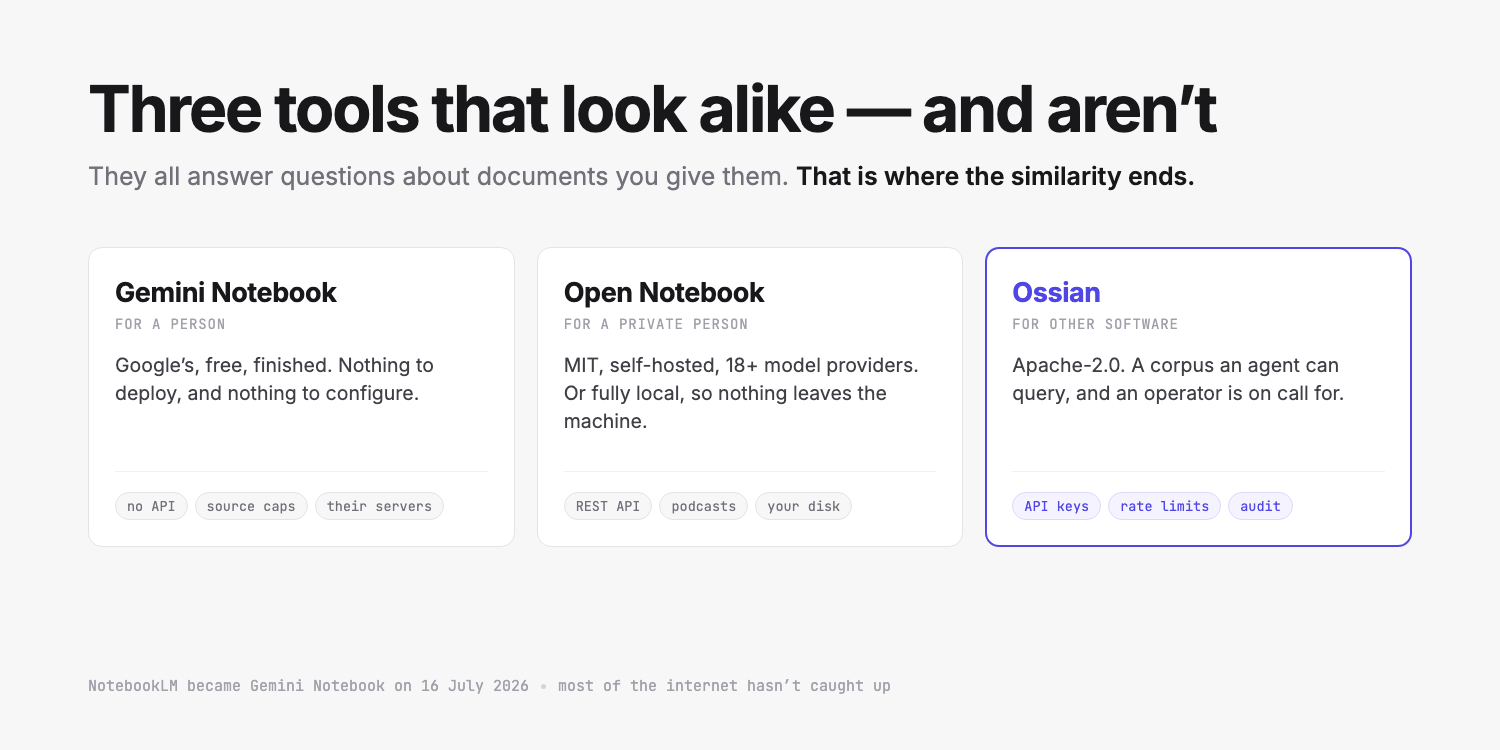
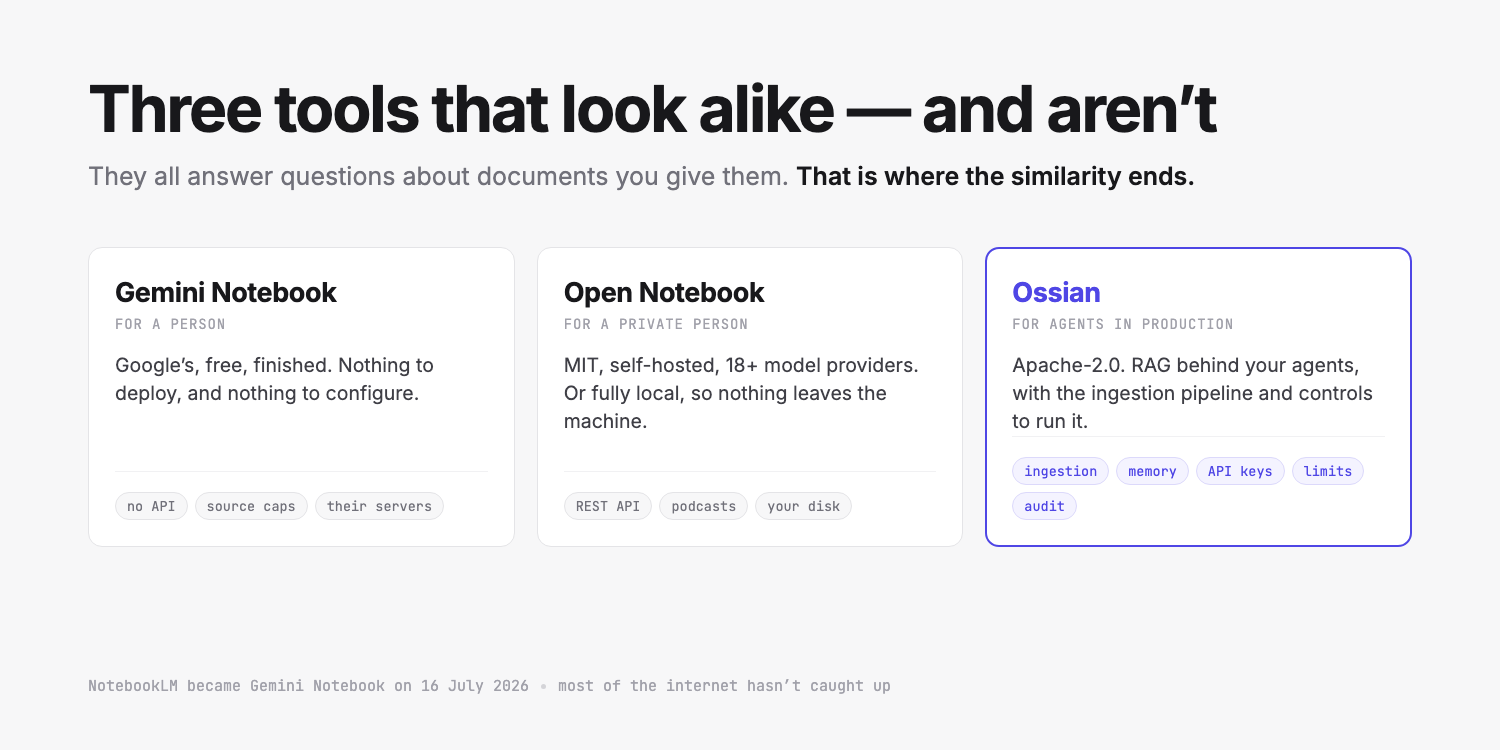
Fix table rendering for Medium, and say what Ossian is for
Two problems, one of them self-inflicted.

The tables were misaligned. Wrapped cells put a continuation line under
the first column with nothing tying it to its row, so the table read as a
list of fragments. Separating rows with a blank line fixed the reading and
broke the table: Medium's paste importer treats a blank line inside a
<pre> as a block boundary, so one table silently became several code
blocks. Found by watching it happen in the editor.

The fix is not to wrap at all. Two-column tables become native paragraphs,
which read better than any monospace grid. Wider ones stay preformatted
with cells short enough that every row fits one line — alignment is the
whole point of a grid, and a grid that wraps has given that up.

And "a company that needs a documented corpus other software can query"
undersold it to the point of being wrong. Ossian is a RAG backend for a
company's agents, with the ingestion pipeline, memory, credentials, limits
and audit needed to run that in production. Corrected in the comparison,
the positioning line and the banner, and the table gains an Ingestion row
— upload, URL and CDC/webhook events against upload-only for both others,
which is the difference the old wording hid.

The converter is committed alongside the posts, since it now encodes
several things about Medium that are only learnable by trying.

Changed region(s): [[0.6747, 0.4293, 0.92, 0.5827], [0.6747, 0.6133, 0.92, 0.7053]]

diff --git a/docs/media/blog-2-banner.html b/docs/media/blog-2-banner.html
@@ -48,9 +48,9 @@
     </div>
     <div class="card mine">
       <div class="name">Ossian</div>
-      <div class="for">for other software</div>
-      <div class="line">Apache-2.0. A corpus an agent can query, and an operator is on call for.</div>
-      <div class="tags"><span class="tag">API keys</span><span class="tag">rate limits</span><span class="tag">audit</span></div>
+      <div class="for">for agents in production</div>
+      <div class="line">Apache-2.0. RAG behind your agents, with the ingestion pipeline and controls to run it.</div>
+      <div class="tags"><span class="tag">ingestion</span><span class="tag">memory</span><span class="tag">API keys</span><span class="tag">limits</span><span class="tag">audit</span></div>
     </div>
   </div>
 

diff --git a/docs/media/md2medium.py b/docs/media/md2medium.py
@@ -1,0 +1,102 @@
+"""Markdown -> HTML shaped for Medium's paste importer.
+
+Medium renders a narrow subset. Two things matter here: it has no table element at all, so a
+markdown table pasted in arrives as a run of pipes; and its code blocks preserve alignment. Tables
+therefore become <pre>, column-aligned, which is the closest honest rendering.
+"""
+import re, sys, html
+
+def render_table(rows):
+    """Render a markdown table for Medium, which has no table element.
+
+    Two constraints learned the hard way. Medium's code blocks scroll rather than wrap, so a
+    wrapped cell is fine but a *split* row is unreadable. And its paste importer treats a blank
+    line inside a <pre> as a block boundary — a blank line between rows, added to group wrapped
+    ones, silently breaks a single table into several code blocks.
+
+    So: two-column tables become native paragraphs, which read better than any monospace grid.
+    Wider tables stay preformatted, sized so every row fits one line — alignment is what makes a
+    grid legible, and a grid that wraps has given that up anyway.
+    """
+    def plain(c):
+        c = re.sub(r'\*\*([^*]+)\*\*', r'\1', c)
+        return c.strip()
+    raw = [[c.strip() for c in r.strip().strip('|').split('|')] for r in rows]
+    raw = [c for c in raw if not all(set(x) <= set('-: ') for x in c)]
+    if not raw:
+        return ''
+    ncols = max(len(r) for r in raw)
+
+    if ncols == 2:
+        # A term and its description is a definition list, not a grid.
+        out = []
+        for i, row in enumerate(raw):
+            left, right = plain(row[0]), row[1] if len(row) > 1 else ''
+            if i == 0 and not left:
+                continue  # header with an empty first cell carries no information here
+            out.append('<p><strong>' + html.escape(left) + '</strong> — ' + inline(right) + '</p>')
+        return '\n'.join(out)
+
+    cells = [[plain(c) for c in (r + [''] * (ncols - len(r)))] for r in raw]
+    widths = [max(len(r[i]) for r in cells) for i in range(ncols)]
+    out = []
+    for n, row in enumerate(cells):
+        out.append('  '.join(row[i].ljust(widths[i]) for i in range(ncols)).rstrip())
+        if n == 0:
+            out.append('  '.join('-' * widths[i] for i in range(ncols)))
+    return '<pre>' + html.escape('\n'.join(out)) + '</pre>'
+
+def inline(t):
+    t = html.escape(t)
+    t = re.sub(r'`([^`]+)`', r'<code>\1</code>', t)
+    t = re.sub(r'\*\*([^*]+)\*\*', r'<strong>\1</strong>', t)
+    t = re.sub(r'(?<![*\w])\*([^*\n]+)\*(?!\*)', r'<em>\1</em>', t)
+    t = re.sub(r'\[([^\]]+)\]\(([^)]+)\)', r'<a href="\2">\1</a>', t)
+    return t
+
+def convert(md):
+    out, lines, i = [], md.split('\n'), 0
+    while i < len(lines):
+        line = lines[i]
+        if line.startswith('```'):
+            i += 1; buf = []
+            while i < len(lines) and not lines[i].startswith('```'):
+                buf.append(lines[i]); i += 1
+            i += 1
+            out.append('<pre>' + html.escape('\n'.join(buf)) + '</pre>')
+        elif line.strip().startswith('|'):
+            buf = []
+            while i < len(lines) and lines[i].strip().startswith('|'):
+                buf.append(lines[i]); i += 1
+            out.append(render_table(buf))
+        elif line.startswith('### '):
+            out.append('<h3>' + inline(line[4:]) + '</h3>'); i += 1
+        elif line.startswith('## '):
+            out.append('<h2>' + inline(line[3:]) + '</h2>'); i += 1
+        elif line.startswith('# '):
+            out.append('<h1>' + inline(line[2:]) + '</h1>'); i += 1
+        elif line.strip() == '---':
+            out.append('<hr>'); i += 1
+        elif line.strip().startswith(('- ', '* ')):
+            buf = []
+            while i < len(lines) and lines[i].strip().startswith(('- ', '* ')):
+                buf.append('<li>' + inline(lines[i].strip()[2:]) + '</li>'); i += 1
+            out.append('<ul>' + ''.join(buf) + '</ul>')
+        elif line.strip() == '':
+            i += 1
+        else:
+            buf = []
+            while i < len(lines) and lines[i].strip() and not lines[i].startswith(('#', '```', '|', '- ', '* ')) \
+                    and lines[i].strip() != '---':
+                buf.append(lines[i].strip()); i += 1
+            out.append('<p>' + inline(' '.join(buf)) + '</p>')
+    return '\n'.join(out)
+
+src = open(sys.argv[1]).read()
+# The H1 becomes Medium's title from the editor, not from the body.
+src = re.sub(r'\A# .*\n', '', src, count=1)
+# Drop standalone image references. They point at repo-relative paths that would not resolve on
+# Medium, and the banner is inserted there as a real upload — left in, they paste as literal
+# "![alt](path)" text in the middle of the article.
+src = re.sub(r'^!\[[^\]]*\]\([^)]*\)\s*$', '', src, flags=re.M)
+sys.stdout.write(convert(src))

diff --git a/docs/blog-2-notebooklm-vs-open-notebook-vs-ossian.md b/docs/blog-2-notebooklm-vs-open-notebook-vs-ossian.md
@@ -24,9 +24,10 @@ NotebookLM.
 |---|---|
 | **Gemini Notebook** | a person, reading sources, who wants excellent answers with zero setup |
 | **Open Notebook** | a person who wants that, privately, on their own machine, with any model |
-| **Ossian** | a company that needs a documented corpus other software can query |
+| **Ossian** | a company putting RAG behind its agents, with the ingestion pipeline and controls that needs |
 
-The first two are notebooks. The third is infrastructure that happens to have a notebook on top.
+The first two are notebooks. The third is a RAG backend for agents — ingestion pipeline,
+retrieval, memory, credentials, limits and audit — that happens to have a notebook on top.
 
 ---
 
@@ -85,9 +86,11 @@ for.
 
 Mine. Apache-2.0, Spring Boot and Spring AI, Postgres with pgvector, Redis, Keycloak, React.
 
-**What it is built for: being queried by other software, inside a company, and operated by someone
-who is on call for it.** The notebook UI exists so a person can use the corpus, but it is not the
-point. The point is everything around it:
+**What it is built for: putting RAG behind a company's agents, with everything needed to run that
+in production.** The notebook UI exists so a person can use the corpus, but it is not the point.
+The point is the stack around it — an ingestion pipeline you can operate, retrieval you can debug,
+memory the agents own, and the integration surface a company needs to put this behind its own
+software:
 
 - **Keycloak OAuth 2.0** with roles, and **API keys** so an agent can authenticate without a
   browser — a key carries its own roles and can be confined to a single namespace
@@ -112,23 +115,24 @@ you — Postgres, Redis, Keycloak and a model gateway is a real deployment, not 
 
 ## Side by side
 
-| | Gemini Notebook | Open Notebook | Ossian |
+| | Gemini | Open Notebook | Ossian |
 |---|---|---|---|
 | Licence | proprietary | MIT | Apache-2.0 |
-| Runs on | Google's servers | yours | yours |
-| Setup | none | `docker compose up` | compose + Keycloak + a gateway |
-| Source limits | 50–600 per notebook by plan | your disk | your disk |
-| Models | Gemini | 18+ providers, or fully local | whatever the gateway routes to |
-| Auth | Google account | optional password | OAuth 2.0 + roles + API keys |
-| API | none | full REST | full REST + OpenAPI |
-| Audio overview | yes | yes, 1–4 speakers | no |
+| Runs on | Google | yours | yours |
+| Setup | none | compose | compose + Keycloak |
+| Source cap | 50–600 by plan | your disk | your disk |
+| Models | Gemini | 18+, or local | via the gateway |
+| Auth | Google account | password | OAuth2 + roles + keys |
+| API | none | REST | REST + OpenAPI |
+| Ingestion | upload | upload | upload, URL, events |
+| Audio overview | yes | yes, 1–4 voices | no |
 | Transformations | — | yes | yes |
-| Vector inspection | no | no | yes |
-| Rate limiting | by plan quota | no | per-credential, requests and tokens |
+| Vector inspector | no | no | yes |
+| Rate limits | plan quota | no | per credential |
 | Audit trail | no | no | yes |
 | Agent memory | no | no | yes |
-| Ingestion metrics | no | no | Prometheus + console |
-| Maturity | shipped, huge | mature, active | new |
+| Metrics | no | no | Prometheus |
+| Maturity | shipped | mature | new |
 
 Read that table carefully in both directions. The bottom half is why you would choose Ossian; the
 top half is why you probably should not.
